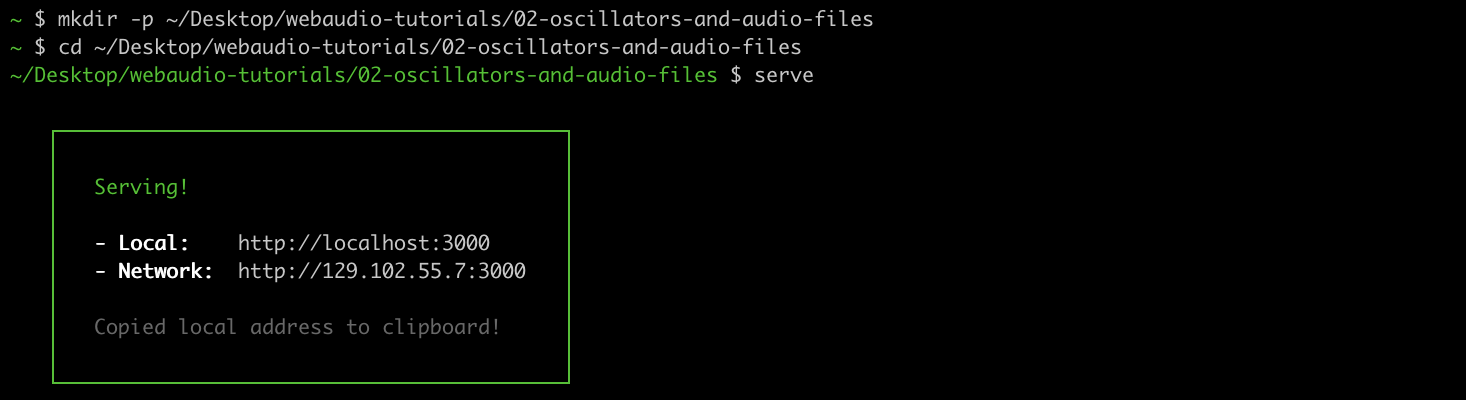
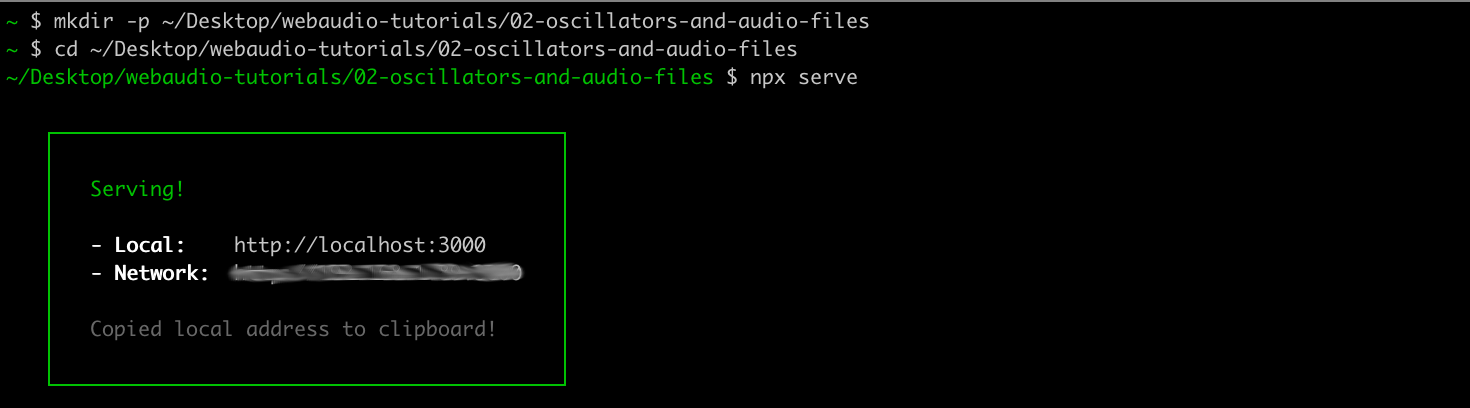
fix: use `npx serve`

Changed region(s): [[0.0, 0.0, 1.0, 0.21], [0.0307, 0.3, 0.399, 0.96]]

diff --git a/first-steps/setting-up-environment.md b/first-steps/setting-up-environment.md
@@ -55,23 +55,29 @@ Note that, depending on when you follow this tutorial, the actual versions you s
 
 ## Web Server
 
-An important tool to have when developing Web pages, is a Web server that you can launch locally on your computer. In these tutorials, we will only need the most simple Web server: a server able to serve a file from its hard drive when the Web browser requests it.
+An important tool to have when developing Web pages, is a Web server that you can launch locally on your computer. In these tutorials, we will only need the most simple Web server: a server able to serve a file from the hard drive when the Web browser requests it.
 
 A large number of options written in different programming languages are available to have such server. In this tutorials we will use [serve](https://www.npmjs.com/package/serve), a web server developed in the [Node.js](https://nodejs.org/) environment.
 
-Open a new `Terminal` prompt and type:
+To test it, let's open a new `Terminal` prompt and type:
 
 ```sh
-npm install -g serve
+npx serve
 ```
 
-Then, press `Enter` to execute the command.
+Then, press `Enter` to execute the command. Then the `npx` tool will propose you to install the package, press `y` then `Enter`, the tools will download the package and run the server in your current directory:
 
-::: info
-This command basically tells the `npm` program (we just installed in the previous step) to install the `serve` package globally (cf. `-g`) on your computer.
+![serve](../assets/setting-up-environment/serve.png)
+
+To close the server, press `Ctrl + C`
+
+::: warning
+During this test we just created the server into your desktop which is OK for a simple test but is **_really not_** a good idea in general.
+
+Indeed, it is **_very_** important to understand and to keep in mind that exposing a directory to the network means that **_all the files_** located in this directory will be accessible by **_any_** computer connected to the same network as your machine.  
+
+**_So, BE CAREFULL TO NOT EXPOSE any sensitive or private information in this directory_**.  
 :::
-
-![install-serve](../assets/setting-up-environment/install-serve.png)
 
 ## Configure your Web browser
 

diff --git a/first-steps/simple-website.md b/first-steps/simple-website.md
@@ -31,7 +31,7 @@ You can think of `cd` as a way to navigate into your computer filesystem, just a
 Now that we are located in our project directory, let's launch our Web server inside it using the following command:
 
 ```sh
-serve
+npx serve
 ```
 
 If everything went well, your terminal should look like the following, with the Web server launched in the directory you just created:

diff --git a/basics/oscillators-and-audio-files.md b/basics/oscillators-and-audio-files.md
@@ -27,7 +27,7 @@ cd ~/Desktop/webaudio-tutorials/02-oscillators-and-audio-files
 And start the server
 
 ```sh
-serve
+npx serve
 ```
 
 ![create-project](../assets/oscillators-and-audio-files/create-project.png)
